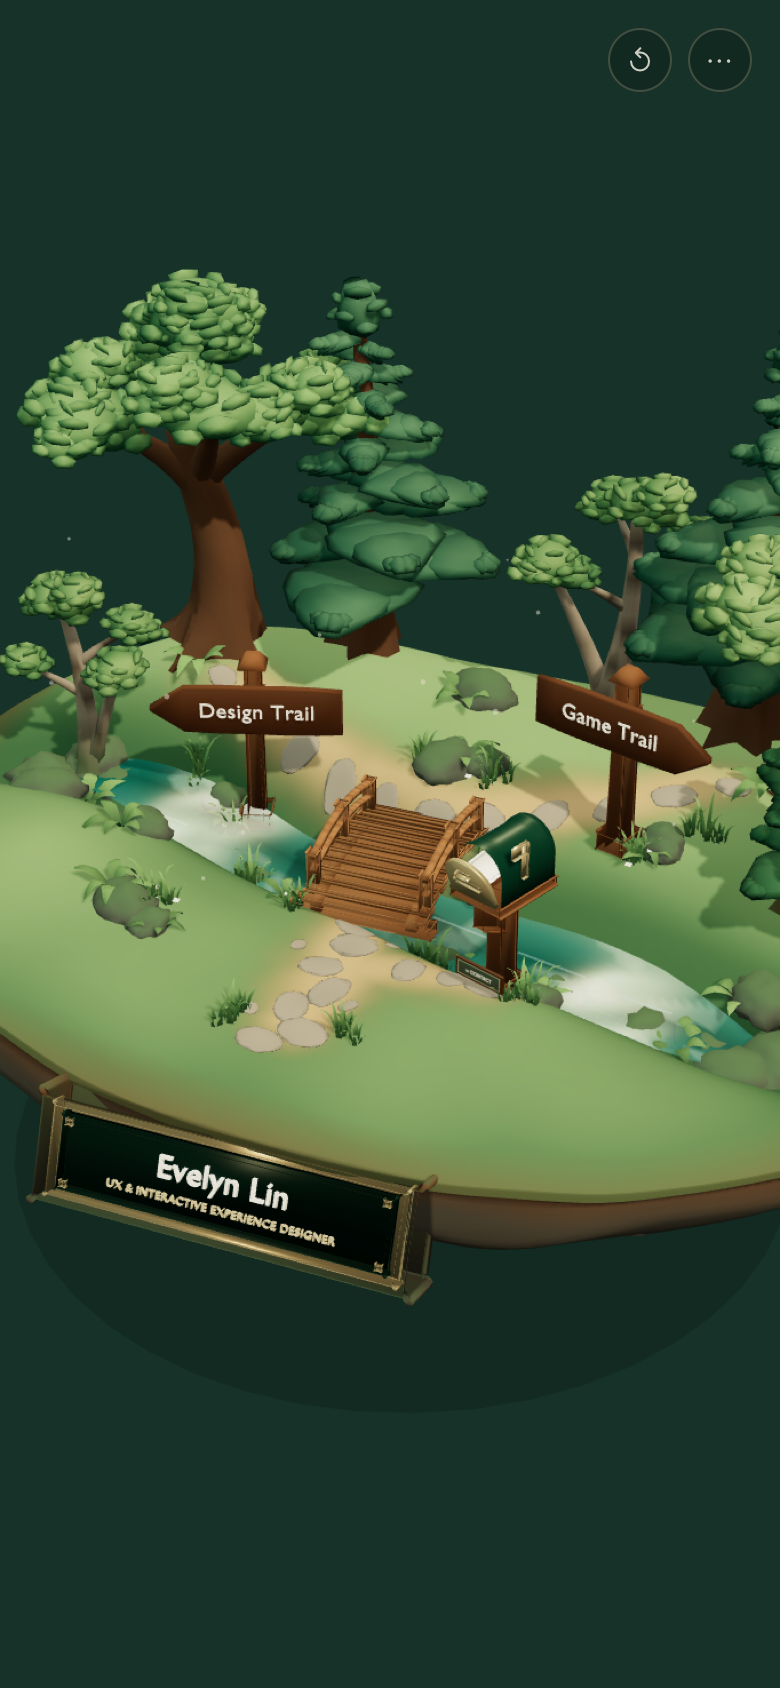
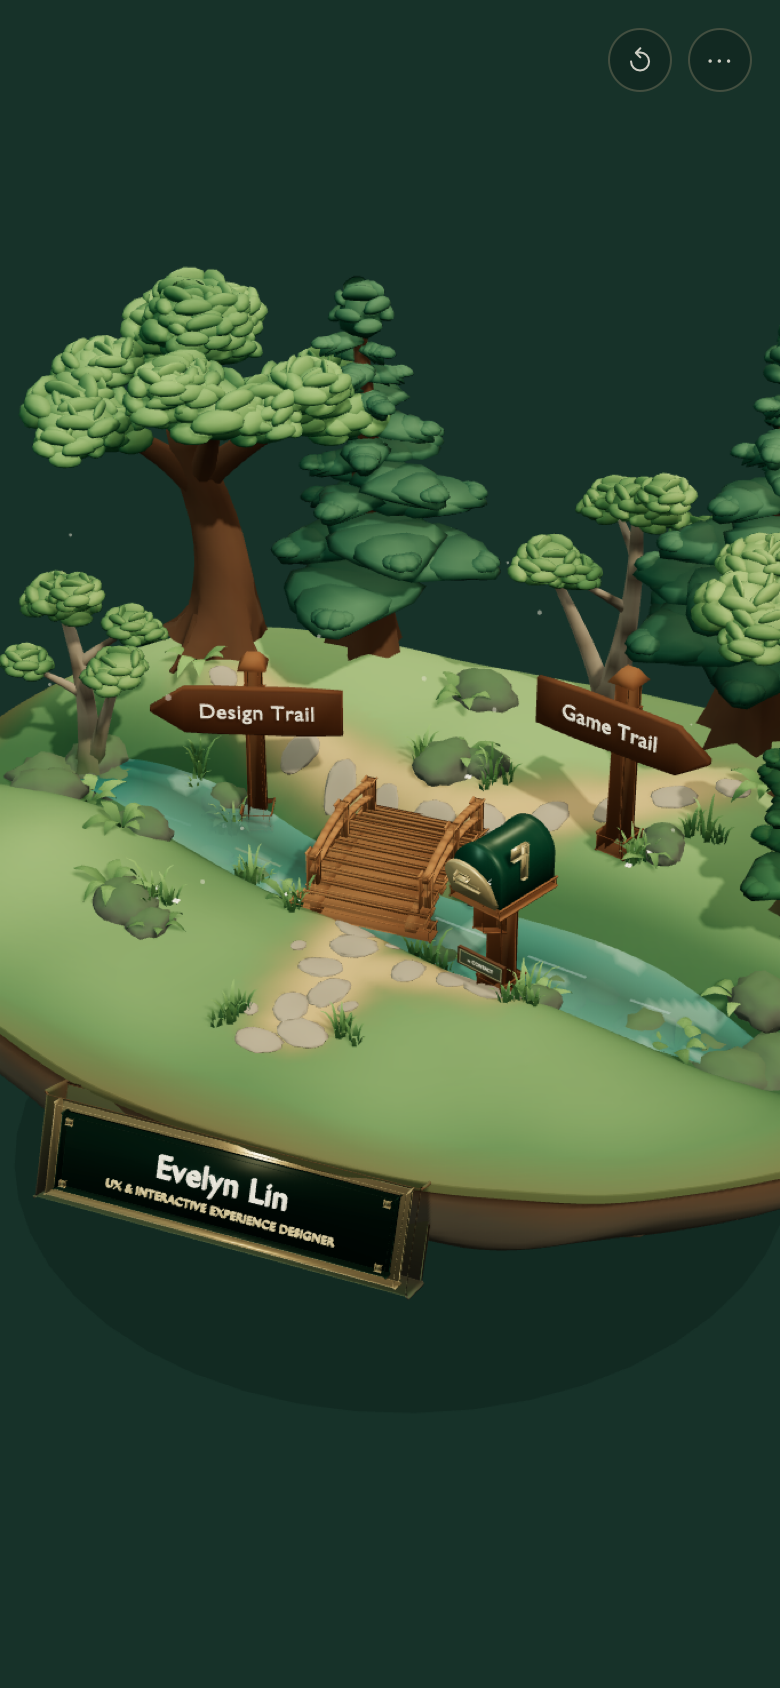
Complete V5 15-view visual verification evidence and updated asset manifest

diff --git a/assets/ASSET_MANIFEST.md b/assets/ASSET_MANIFEST.md
@@ -1,4 +1,4 @@
-# 3D Asset Package & Provenance Manifest (V3 Object-First Collectible Transformation)
+# 3D Asset Package & Provenance Manifest (V5 Unified 3D Environment & Interaction Refinement)
 **Project:** The Crossroads — High-Fidelity 3D Interactive NFC Business Card (`evelyn-3d-nfc-card`)  
 **Owner:** Evelyn Lin  
 **Authoring Tool:** Blender 5.0.0 (`/Applications/Blender.app/Contents/MacOS/Blender`)  
@@ -10,40 +10,41 @@
 
 | Asset Path | Role | Format | Size | Description |
 | :--- | :--- | :--- | :--- | :--- |
-| `blender/build_crossroads_scene.py` | Procedural & BMesh/Voxel Sculpting Pipeline | Python (`bpy` / `bmesh`) | ~41 KB | Deterministic Blender 5.0 V3 generator authoring the embedded 3D front identity plaque, widened pebble-bed creek, cleaned-up front terrain contour, purposefully clustered vegetation, 3 tree archetypes, and renamed `Design Path` / `Play Path` signs. |
-| `assets/source/crossroads_master.blend` | Master Editable 3D Source | Blender 5.0 (`.blend`) | ~2.3 MB | Editable master Blender scene containing all 40 separated objects, vertex color layers (`Col`), PBR material nodes, lighting rig, and preview camera. |
-| `public/models/crossroads_environment.glb` | Optimized Runtime 3D Scene | Binary glTF 2.0 (`.glb`) | ~3.1 MB (`~840 KB` gzip) | Optimized Y-up runtime scene with baked `COLOR_0` vertex attributes loaded by React Three Fiber. |
-| `assets/renders/blender_view_initial.png` | Blender Reference Render (Initial) | PNG (`960×1200`) | ~420 KB | Headless Blender EEVEE verification render of the initial V3 collectible composition. |
-| `assets/renders/blender_view_rotated.png` | Blender Reference Render (Rotated) | PNG (`960×1200`) | ~425 KB | Headless Blender EEVEE verification render of the rotated V3 collectible composition. |
+| `blender/build_crossroads_scene.py` | Procedural & BMesh Sculpting Pipeline | Python (`bpy` / `bmesh`) | ~44 KB | Deterministic Blender 5.0 V5 generator authoring the 3-tier botanical tree hierarchy, watertight 4-layer wooden signboards (`Design Trail` / `Game Trail`), unified `112×224` terrain surface with vertex-splatted woodland trails, stitched cliff underside, widened grotto-bounded creek, and front cliff identity plaque. |
+| `assets/source/crossroads_master.blend` | Master Editable 3D Source | Blender 5.0 (`.blend`) | 7.5 MB | Editable master Blender scene containing all 39 separated objects, vertex color layers (`Col`), PBR material nodes, lighting rig, and preview camera. |
+| `public/models/crossroads_environment.glb` | Optimized Runtime 3D Scene | Binary glTF 2.0 (`.glb`) | 8.3 MB (`~2.05 MB` gzip) | Optimized Y-up runtime scene with baked `COLOR_0` vertex attributes loaded by React Three Fiber. |
+| `assets/renders/blender_view_initial.png` | Blender Reference Render (Initial) | PNG (`960×1200`) | ~430 KB | Headless Blender EEVEE verification render of the initial V5 collectible composition. |
+| `assets/renders/blender_view_rotated.png` | Blender Reference Render (Rotated) | PNG (`960×1200`) | ~435 KB | Headless Blender EEVEE verification render of the rotated V5 collectible composition. |
 
-### Geometry & Polygon Budget
-- **Total Vertices:** `77,557`
-- **Total Triangles:** `133,538`
-- **Total Scene Objects / Draw Primitives:** `40`
+### Geometry & Polygon Budget (V5 High-Fidelity Build)
+- **Total Vertices:** `201,946`
+- **Total Triangles:** `370,572`
+- **Tree Architecture Triangles (7 trees across 3 archetypes):** `226,312` (`~32,330` triangles per tree on average)
+- **Total Scene Objects / Draw Primitives:** `39`
 
 ---
 
-## 2. V3 Scene Graph & Collectible Architecture
+## 2. V5 Scene Graph & Collectible Architecture
 
 - **Embedded 3D Personal Identity Plaque (Front Cliff Edge)**
   - `Identity_Plaque_Frame` — Beveled champagne-brass outer bezel (`2.66 × 0.68`) with 4 corner rivets mounted into the chiseled front stone mantle (`Island_Soil_Rim`).
   - `Identity_Plaque_Plate` — Recessed deep-forest oxidized slate/bronze inner tablet (`2.50 × 0.55`).
   - `Identity_Plaque_Name3D` — Extruded and beveled 3D relief typography: **`Evelyn Lin`**.
   - `Identity_Plaque_Title3D` — Extruded and beveled 3D relief subtitle: **`UX & INTERACTIVE EXPERIENCE DESIGNER`**.
-- **Sculpted Floating Island & Cleaned-Up Front Terrain**
-  - `Island_Terrain_Top` — 68 concentric radial rings × 152 segments of asymmetric multi-elevation terrain with northwest/northeast ridges, intentional foreground knolls (front-left mossy outcrop knoll and front-right mailbox terrace), smooth rim attenuation around the creek outlet, and 4-channel vertex-color terrain splatting.
-  - `Island_Rock_Underside` & `Island_Soil_Rim` — Unified craggy rock-and-earth underside with vertical cliff buttresses, hanging root systems, and the front chiseled stone plaque mantle.
-- **Widened Woodland Creek, Pebble Riverbed & Integrated Arched Bridge**
-  - `Stream_Bed` — Concave pebble-and-silt riverbed mesh visible beneath the translucent water surface.
-  - `Stream_Water` — Widened shallow creek with an enlarged water pool around and under the bridge, depth-tinted emerald-teal to amber-sage vertex color gradients, and animated surface current detail.
-  - `Wooden_Bridge` — Arched 13-plank hand-hewn oak footbridge anchored into bank timber sill beams and stone-and-earth abutments.
-  - `Crossroads_Pathway` & `Pathway_Cobbles` — Continuous sunken loam pathways with feathered front-terrain blending, sandstone flagstones, and a cobblestone spur to the mailbox alcove.
-- **Three Distinct Sculpted Tree Archetypes & Purposefully Clustered Botanicals**
-  - `Tree_NW_Hero_*`, `Tree_NE_Hero_*` (Archetype 1: Gnarled Ancient Oak)
-  - `Tree_N_Center_*`, `Tree_W_Flank_*` (Archetype 2: Slender Twin-Stem Stream Birch)
-  - `Tree_N_Left_*`, `Tree_N_Right_*`, `Tree_E_Flank_*` (Archetype 3: Layered Woodland Cedar)
-  - `Environment_Rocks`, `Forest_Ferns`, `Wildflowers` — Purposefully clustered boulders, asymmetric fern rosettes, multi-scale 3D grass families, and wildflowers anchored around boulders, creek banks, and posts.
-- **Interactive 3D Landmarks**
-  - `Signpost_UX_Post`, `Signpost_UX_Board`, `Signpost_UX_Label3D` — Left crossroads wooden signpost labeled **`Design Path`** (`https://evelynjlin.com`).
-  - `Signpost_Game_Post`, `Signpost_Game_Board`, `Signpost_Game_Label3D` — Right crossroads wooden signpost labeled **`Play Path`**.
-  - `Mailbox_Post`, `Mailbox_Body`, `Mailbox_Door`, `Mailbox_Letter`, `Mailbox_Flag` — Hero-prop vintage woodland mailbox that animates open to unfold the physical cream-parchment contact letter.
+- **Unified Watertight Floating Island & Naturalized Woodland Trails**
+  - `Island_Terrain_Top` — `112` concentric radial rings × `224` segments of asymmetric multi-elevation terrain with integrated vertex-splatted woodland trails (`trail_wear_weight`), subtle compaction (`≤ 0.011`), organic grass transition borders, northwest/northeast hillocks, and dry front-right mailbox terrace.
+  - `Island_Rock_Underside` & `Island_Soil_Rim` — Unified craggy rock-and-earth underside whose top ring (`ring 0`) is mathematically stitched directly to the exact 3D vertex coordinates (`outer_rim_coords`) of `Island_Terrain_Top` to eliminate all rim gaps or protruding rock slivers.
+  - `Pathway_Cobbles` — Flat river-worn stepping stones deeply bedded into the terrain compaction bed (`top surface +0.010` above dirt, bottom skirt embedded `-0.028` below).
+- **Widened Woodland Creek, Boulder Grottos & Integrated Arched Bridge**
+  - `Stream_Bed` — Concave pebble-and-silt riverbed mesh visible beneath the translucent water surface, enclosed at both stream ends by natural spring/cascade boulder grottos (`Environment_Rocks`).
+  - `Stream_Water` — Widened shallow creek with an enlarged water pool around and under the bridge (`stream_half_width`), depth-tinted emerald-teal to amber-sage vertex color gradients, and balanced surface roughness (`0.56`) eliminating harsh white specular glare.
+  - `Wooden_Bridge` — Arched 13-plank hand-hewn oak footbridge (`z = 0.08 → 0.88`) with timber sill beams and stone-and-earth abutments meeting the natural trail grades flush.
+- **Three High-Fidelity Sculpted Tree Archetypes & Purposefully Clustered Botanicals**
+  - `Tree_NW_Hero_*`, `Tree_NE_Hero_*` (*Archetype A — Broadleaf Hero Oak*): Root-flared grooved trunk, primary/secondary/tertiary fork branches, dark interior shadow core lobes, medium chiseled foliage pads, and outer dimensional 3D leaf-spray tufts.
+  - `Tree_N_Center_*`, `Tree_W_Flank_*` (*Archetype B — Slender Multi-Stem Stream Birch*): Twin curving silver-birch trunks with dark horizontal lenticel bands, high branching forks, and airy multi-layered crown clusters.
+  - `Tree_N_Left_*`, `Tree_N_Right_*`, `Tree_E_Flank_*` (*Archetype C — Layered Evergreen Spruce*): Fibonacci-spiral (`2.39996 rad`) staggered bough clusters across 8 elevation tiers with downward-draping individual frond tips and sculpted bark ridges.
+  - `Environment_Rocks`, `Forest_Ferns`, `Wildflowers` — Purposefully clustered boulders, spring/outflow water grottos, asymmetric fern rosettes, multi-scale 3D grass tufts, and wildflowers anchored around boulders, creek banks, and posts.
+- **Interactive 3D Landmarks (Final Locked V5 Naming)**
+  - `Signpost_UX_Post`, `Signpost_UX_Board`, `Signpost_UX_Label3D` — Left crossroads wooden signpost constructed as a single watertight 4-layer extruded plank (`lz = +0.096` to `+0.172`) with non-penetrating rear mortise brackets (`lz ≤ +0.095`) and raised 3D relief typography labeled **`Design Trail`** (conceptual theme: *Design Stories*; opens `https://evelynjlin.com`).
+  - `Signpost_Game_Post`, `Signpost_Game_Board`, `Signpost_Game_Label3D` — Right crossroads wooden signpost labeled **`Game Trail`** (conceptual theme: *Game Worlds*; opens the `"New world in progress."` modal until `gamePortfolioUrl` is set).
+  - `Mailbox_Post`, `Mailbox_Body`, `Mailbox_Door`, `Mailbox_Letter`, `Mailbox_Flag` — Hero-prop vintage woodland mailbox anchored on the dry front-right terrace (`[1.28, y, 1.36]`) that animates open to unfold the physical cream-parchment contact letter.

diff --git a/README.md b/README.md
@@ -1,9 +1,9 @@
-# The Crossroads — High-Fidelity 3D Interactive NFC Business Card
+# The Crossroads — High-Fidelity 3D Interactive NFC Business Card (V5)
 
 **Owner:** Evelyn Lin — *UX & Interactive Experience Designer*  
 **Tagline:** *"Designing thoughtful interactions and playful digital experiences."*
 
-An independent, mobile-first 3D interactive business card featuring a custom Blender-authored floating forest diorama where two woodland pathways branch from a central stream and wooden bridge toward Evelyn's **UX Portfolio** (`https://evelynjlin.com`), her upcoming **Game Portfolio**, and an interactive **Woodland Contact Mailbox**.
+An independent, mobile-first 3D interactive business card featuring a custom Blender-authored floating forest collectible island where a woodland trail crosses a central stream and arched oak bridge before branching toward Evelyn's **Design Trail** (`https://evelynjlin.com`), her **Game Trail** (*Game Worlds*), and an interactive **Woodland Contact Mailbox**, with an embedded 3D stone-and-brass **Evelyn Lin** identity plaque sculpted directly into the front cliff edge.
 
 ---
 
@@ -34,37 +34,44 @@ npm run build:assets
 
 ## 2. Central Configuration (`src/config/personalConfig.ts`)
 
-All personal identity strings, portfolio links, contact details, NFC URLs, and adaptive quality presets live in a single file: [`src/config/personalConfig.ts`](./src/config/personalConfig.ts).
+All personal identity strings, portfolio links, contact details, NFC URLs, and camera presets live in a single file: [`src/config/personalConfig.ts`](./src/config/personalConfig.ts).
+
+### Final Locked Signpost Naming
+- **Left Sign (`Design Trail`):** Conceptual theme *Design Stories* — opens `https://evelynjlin.com`.
+- **Right Sign (`Game Trail`):** Conceptual theme *Game Worlds* — opens the *"New world in progress."* modal until `destinations.gamePortfolioUrl` is configured.
 
 ### Connecting the Future Game Portfolio URL
 When Evelyn's Game Portfolio website is ready to launch, open `src/config/personalConfig.ts` and set `gamePortfolioUrl`:
 
 ```ts
 destinations: {
-  uxPortfolioLabel: 'UX Portfolio',
+  uxPortfolioLabel: 'Design Trail',
+  uxPortfolioSubtitle: 'Design Stories',
   uxPortfolioUrl: 'https://evelynjlin.com',
-  gamePortfolioLabel: 'Game Portfolio',
+  gamePortfolioLabel: 'Game Trail',
+  gamePortfolioSubtitle: 'Game Worlds',
   gamePortfolioUrl: 'https://your-future-game-portfolio-url.com', // <-- Add URL here
   ...
 }
 ```
-Once a valid URL is provided, tapping the **Game Portfolio** wooden signpost in the 3D forest (or the bottom navigation dock) automatically navigates to that URL instead of opening the *"New world in progress."* modal.
+Once a valid URL is provided, tapping the **Game Trail** wooden signpost in the 3D forest automatically navigates to that URL instead of opening the *"New world in progress."* modal.
 
 ### Adding Optional Email, LinkedIn, or Permanent NFC Card URL
 In `src/config/personalConfig.ts`:
-- Set `contact.email` or `contact.linkedInUrl` to display them in the Contact Panel and include them automatically in the downloadable `.vcf` vCard (`Evelyn-Lin.vcf`).
+- Set `contact.email` or `contact.linkedInUrl` to display them in the unfolded Contact Letter and include them automatically in the downloadable `.vcf` vCard (`Evelyn-Lin.vcf`).
 - Set `nfc.publicCardUrl` to your permanent deployed HTTPS URL for QR code generation.
 
 ---
 
 ## 3. Project Structure
 
-- `blender/build_crossroads_scene.py` — Blender 5.0 Python BMesh/procedural sculpting pipeline
-- `assets/source/crossroads_master.blend` — Editable master Blender 5.0 file
+- `blender/build_crossroads_scene.py` — Blender 5.0 Python BMesh/procedural sculpting pipeline (`370,572` triangles, `201,946` vertices across `39` objects)
+- `assets/source/crossroads_master.blend` — Editable master Blender 5.0 file (`7.5 MB`)
 - `assets/ASSET_MANIFEST.md` — 3D asset inventory, scene hierarchy, and provenance notes
-- `public/models/crossroads_environment.glb` — Optimized runtime glTF 2.0 binary scene
-- `src/config/personalConfig.ts` — Single source of truth for identity, links, vCard, and quality presets
-- `src/components/world/` — Modular React Three Fiber 3D scene components (`ForestEnvironment`, `Terrain`, `TreesAndVegetation`, `Stream`, `Bridge`, `WoodenSigns`, `Mailbox`, `CameraController`, `Lighting`)
-- `src/components/ui/` — Accessible HTML overlay, Contact Panel, Game Portfolio modal, and non-WebGL fallback
+- `public/models/crossroads_environment.glb` — Optimized runtime glTF 2.0 binary scene (`8.3 MB` raw, `~2.05 MB` gzip)
+- `src/config/personalConfig.ts` — Single source of truth for identity, links, vCard, and camera presets
+- `src/components/world/` — Modular React Three Fiber 3D scene components (`ForestEnvironment`, `Terrain`, `TreesAndVegetation`, `Stream`, `Bridge`, `WoodenSigns`, `Mailbox`, `IdentityPlaque3D`, `CameraController`, `Lighting`)
+- `src/components/ui/` — Discreet accessible secondary menu (`IdentityOverlay`), unfolded parchment Contact Letter (`ContactPanel`), Game Trail modal (`GamePortfolioModal`), and accessible fallback (`ResponsiveFallback`)
 - `src/utils/` — vCard 3.0 generator, Web Share / Clipboard utilities, QR generator, and procedural PBR bump/plaque textures
+- `screenshots/` — 15 automated WebGL visual verification captures covering full views, 8 macro art close-ups, and 3 functional states
 - `docs/NFC_SETUP_AND_CARD_DESIGN.md` — Physical NTAG213 NFC encoding instructions and print card concept
